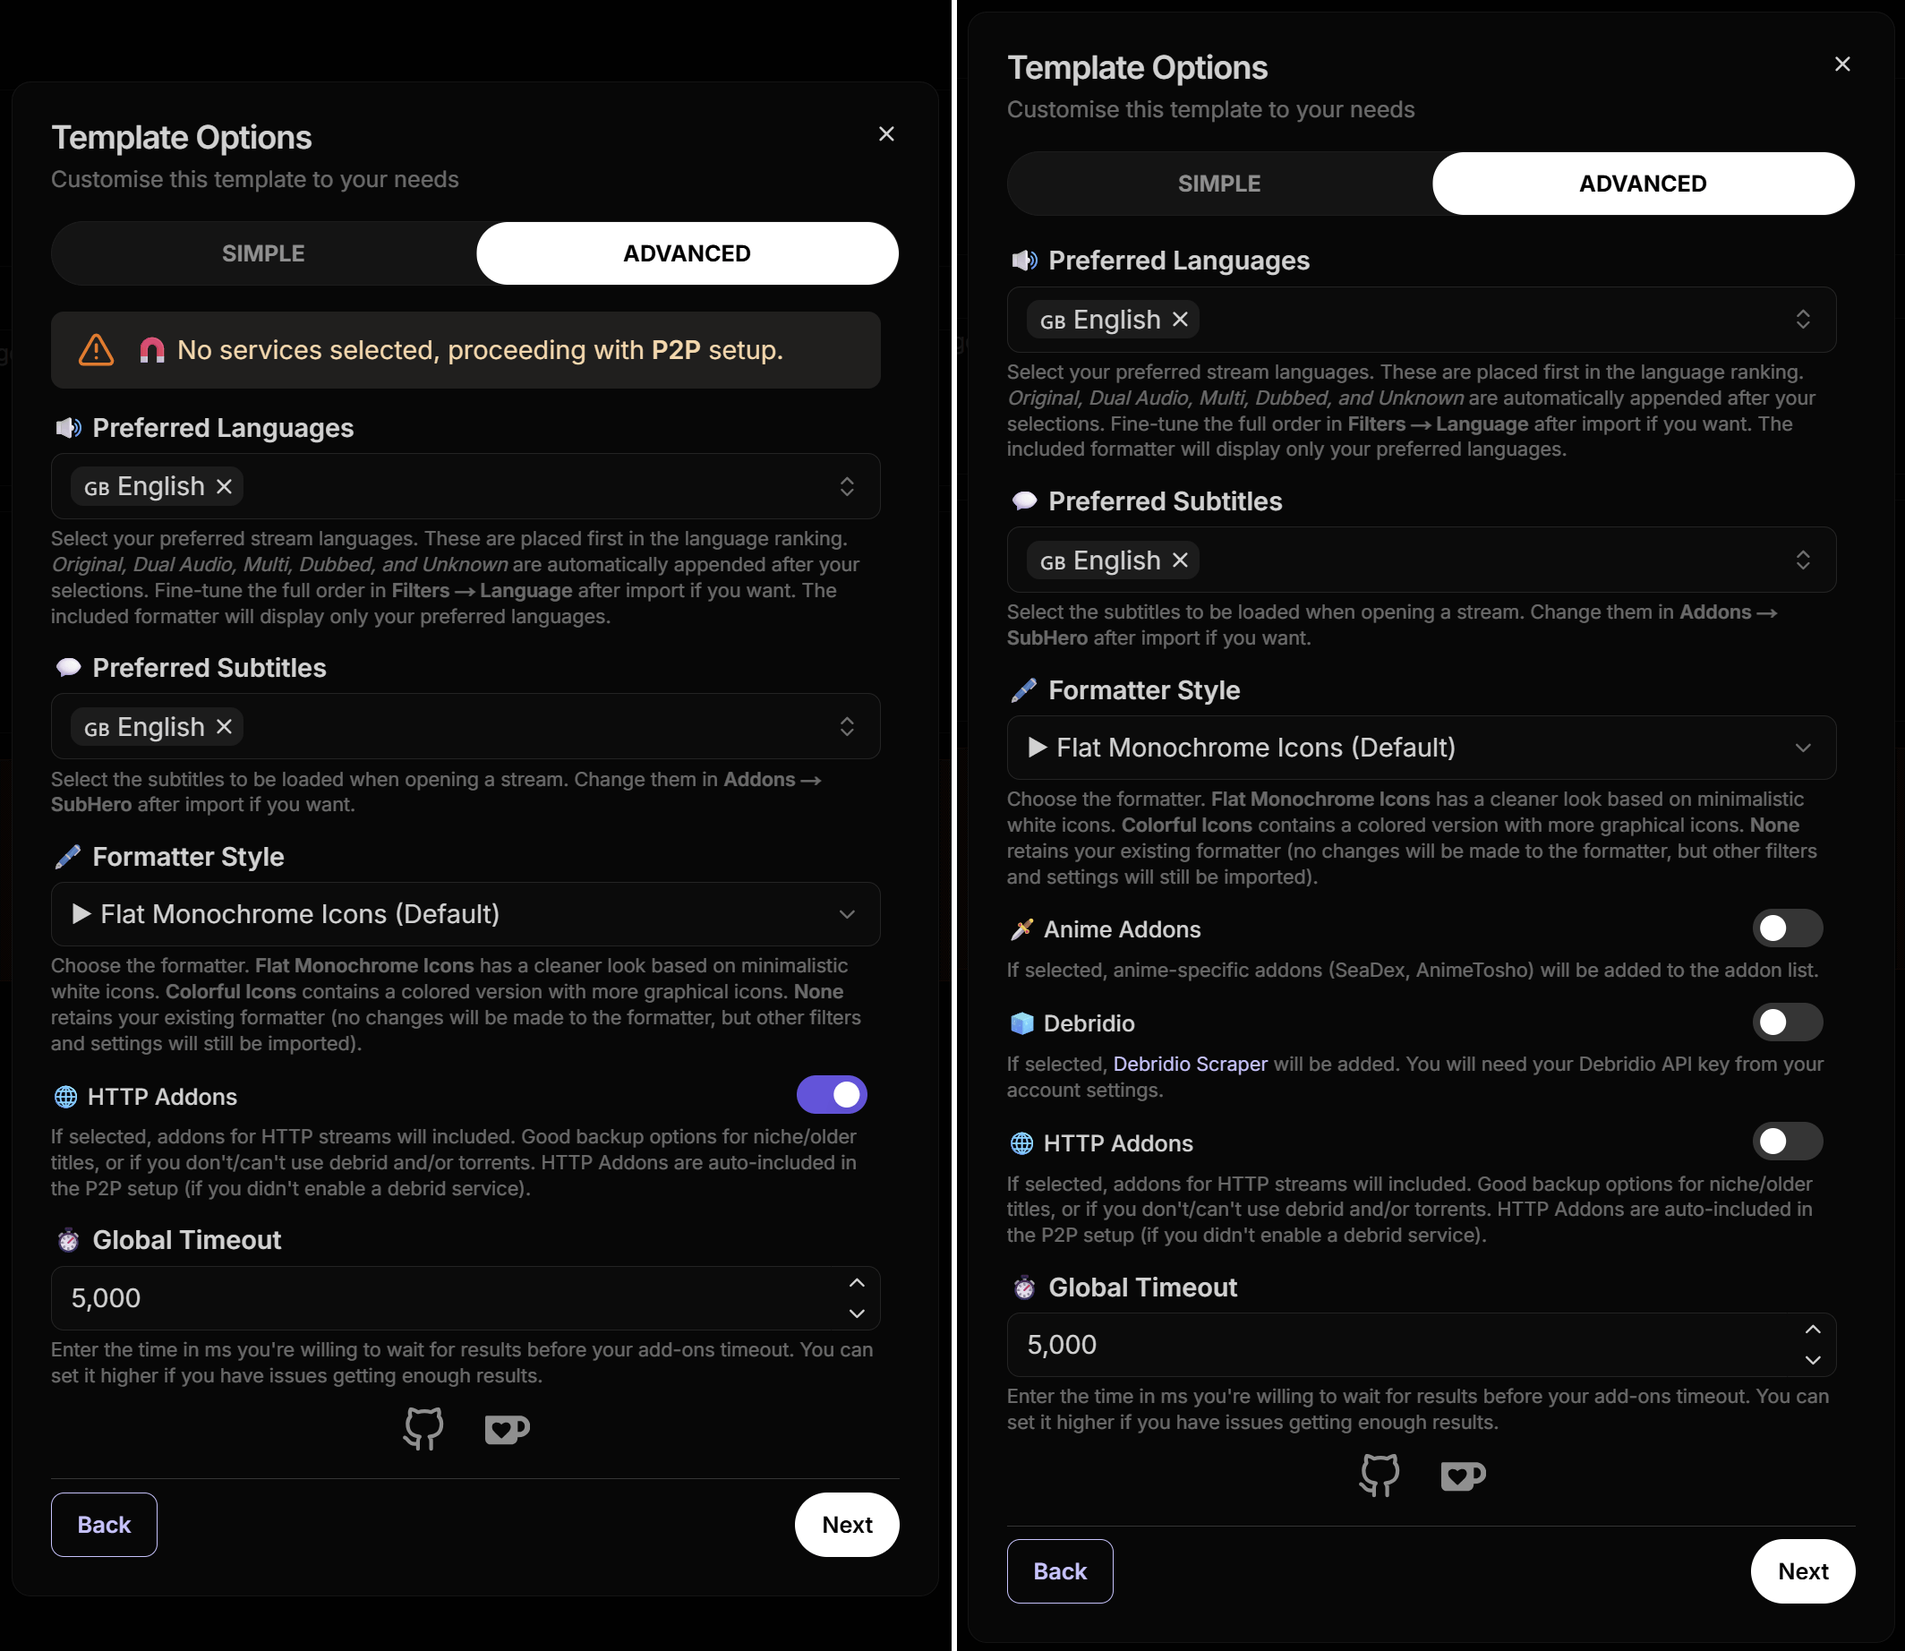
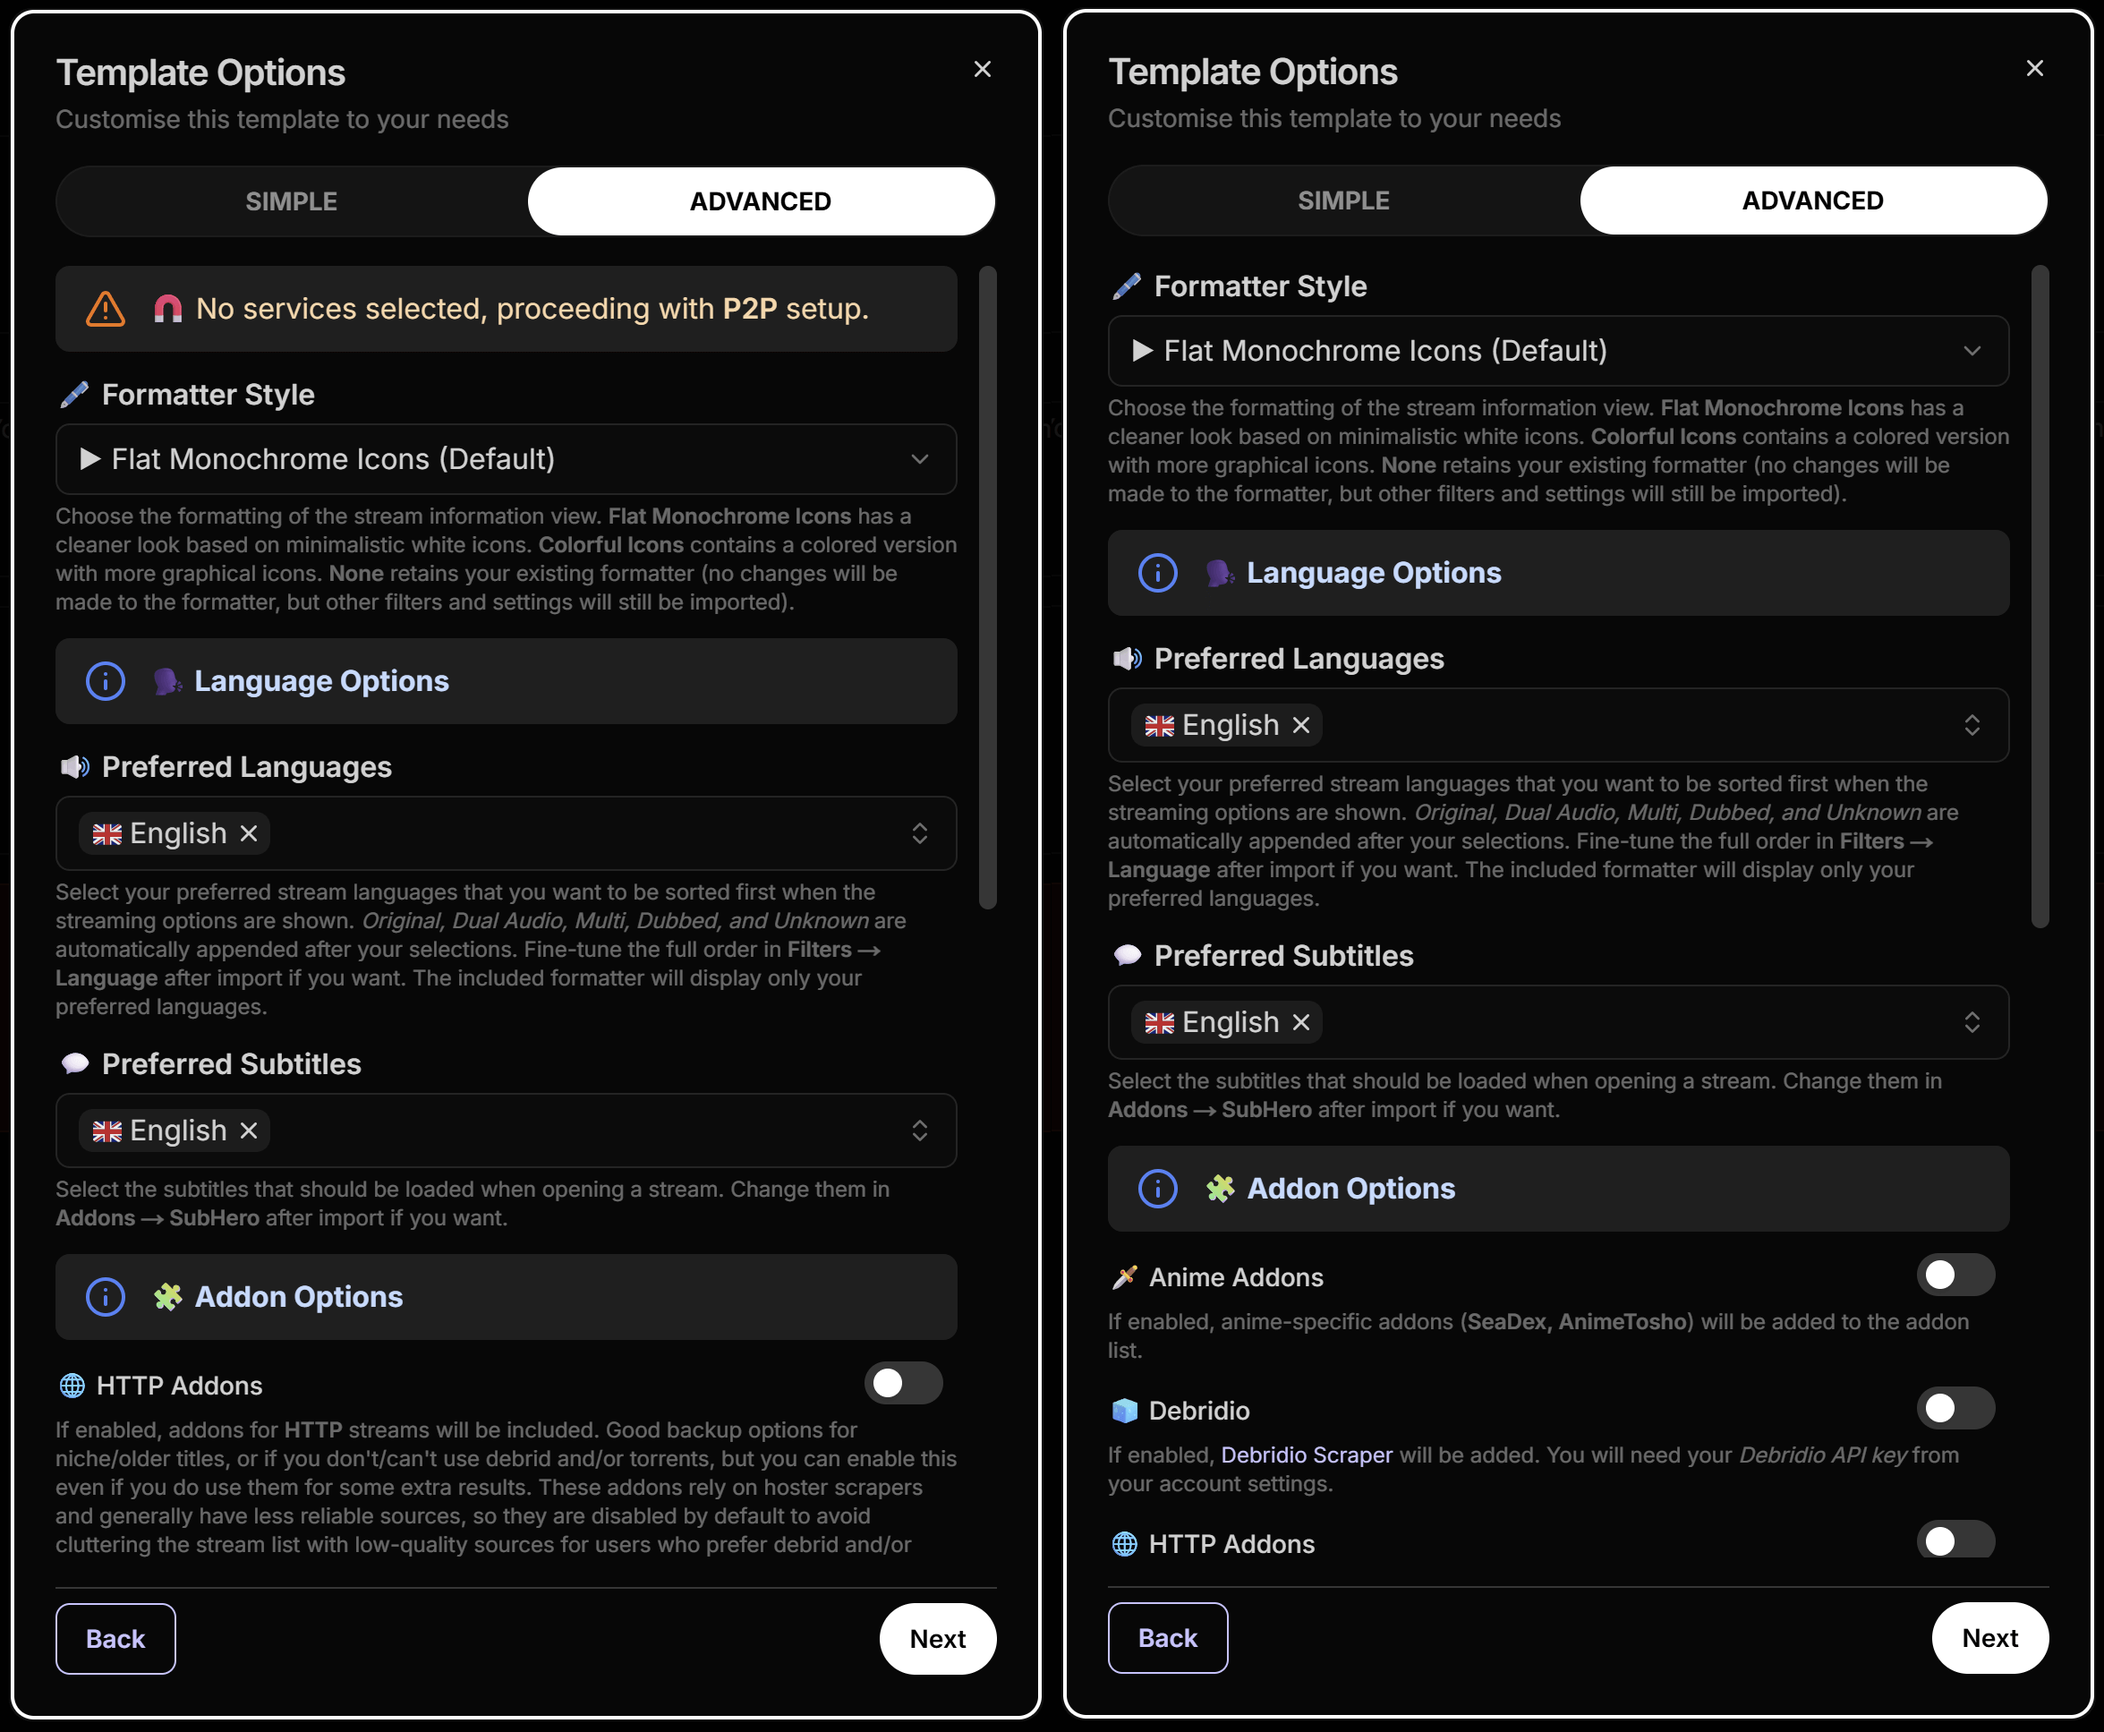
fixes

Changed region(s): [[0.0, 0.0, 1.0, 1.0], [0.7444, 0.0927, 0.9615, 0.1546], [0.0, 0.0, 0.031, 0.0309]]

diff --git a/content/Reddit.md b/content/Reddit.md
@@ -117,16 +117,21 @@ Select an **AIOStreams** instance from [**this**](https://status.stremio-status.
 4. Click "**Use this Template Now**".
 5. On the "**Select Services**" page that is shown, enable the Debrid services you want to use (or click "*Skip*" if you don't use any), and click "**Next**".
 6. On the "**Template Options**" page, you'll be able to personalize the configuration to match your preferences:
-   * **Preferred Languages**: Here you can select your preferred stream languages that you want to be sorted first when the streaming options are shown. *Original, Dual Audio, Multi, Dubbed, and Unknown* are automatically appended after your selections.
-   * **Preferred Subtitles**: Here you can select the subtitles that should be loaded when opening a stream.
    * **Formatter Style**: Here you can choose the formatting of the stream information view.
       * ***Flat Monochrome Icons*** has a cleaner look based on minimalistic white icons.
       * ***Colorful Icons*** contains a colored version with more graphical icons.
-      * ***None*** retains your existing formatter (no changes will be made to the formatter, but other filters and settings will still be imported).
-   * **Anime Addons** (not available in P2P): If enabled, anime-specific addons (SeaDex, AnimeTosho) will be added to the addon list.
-   * **Debridio** (not available in P2P): If enabled, [Debridio](https://debridio.com) will be added. You will need your *Debridio API key* from your account settings.
-   * **HTTP Addons**: If enabled, addons for HTTP streams will included. Good backup options for niche/older titles, or if you don't/can't use debrid and/or torrents. HTTP Addons are auto-included in the P2P setup (if you didn't enable a debrid service).
-   * **Global Timeout**: Enter the time in ms that you're willing to wait for results before your scraper addons timeout. You can set it a bit higher if you have issues getting enough results or you want to make sure to get as many results as possible.
+      * ***None*** retains your existing formatter (formatter will not be replaced, if you already have one configured).
+   * **Language Options**:
+      * **Preferred Languages**: Here you can select your preferred stream languages that you want to be sorted first when the streaming options are shown. *Original, Dual Audio, Multi, Dubbed, and Unknown* are automatically appended after your selections.
+      * **Preferred Subtitles**: Here you can select the subtitles that should be loaded when opening a stream.
+   * **Addon Options**:
+      * **Anime Addons** (*not available in P2P*): If enabled, additional anime-specific addons (SeaDex, AnimeTosho) will be installed.
+      * **Debridio** (*not available in P2P*): If enabled, [Debridio](https://debridio.com) will be added. You will need your *Debridio API key* from your account settings.
+      * **HTTP Addons**: If enabled, addons for HTTP streams will included. Good backup options for niche/older titles, or if you don't/can't use debrid and/or torrents, but you can enable this even if you do use them if you want extra results. These addons rely on hoster scrapers and generally have less reliable sources, so they are disabled by default to avoid cluttering the stream list with low-quality sources for users who prefer debrid and/or P2P options.
+      * **Global Timeout**: Enter the time in ms that you're willing to wait for results before your scraper addons timeout. You can set it a bit higher if you have issues getting enough results or you want to make sure to get as many results as possible.
+   * **Sorting Options**:
+      * **Language Boost**: This option can give priority to streams in your preferred languages by moving it up the sorting order. If you struggle to see your preferred languages in the results, even after adding it to the **Preferred Languages** list, try increasing this boost. May rank lower-quality streams higher if your preferred languages are uncommon among the results, so use with caution.
+      * **Seeders Boost** (*only for P2P*): Change this if you want highest seeders to be prioritized more on the sorting order, even if they have lower Resolution/Quality/SEL Scores. In most cases, low seeders will have already been filtered out by the internal filtering (SEL).
 7. On the "**Enter Credentials**" page, enter all API keys you prepared earlier.
    * For **RPDB**, unless you have an account and a paid subscription with your own API key, you can also use the free standard API Key "*t0-free-rpdb*" directly.
 8. Click on "**Load Template**".

diff --git a/docs/guide/3-AIOStreams-Setup.md b/docs/guide/3-AIOStreams-Setup.md
@@ -32,16 +32,21 @@ Select an **AIOStreams** instance from [**this**](https://status.stremio-status.
 ![Select Services](../images/3.5.png)
 
 6. On the "**Template Options**" page, you'll be able to personalize the configuration to match your preferences:
-   * **Preferred Languages**: Here you can select your preferred stream languages that you want to be sorted first when the streaming options are shown. *Original, Dual Audio, Multi, Dubbed, and Unknown* are automatically appended after your selections.
-   * **Preferred Subtitles**: Here you can select the subtitles that should be loaded when opening a stream.
    * **Formatter Style**: Here you can choose the formatting of the stream information view.
       * ***Flat Monochrome Icons*** has a cleaner look based on minimalistic white icons.
       * ***Colorful Icons*** contains a colored version with more graphical icons.
-      * ***None*** retains your existing formatter (no changes will be made to the formatter, but other filters and settings will still be imported).
-   * **Anime Addons** (not available in P2P): If enabled, anime-specific addons (SeaDex, AnimeTosho) will be added to the addon list.
-   * **Debridio** (not available in P2P): If enabled, [Debridio](https://debridio.com) will be added. You will need your *Debridio API key* from your account settings.
-   * **HTTP Addons**: If enabled, addons for HTTP streams will included. Good backup options for niche/older titles, or if you don't/can't use debrid and/or torrents. HTTP Addons are auto-included in the P2P setup (if you didn't enable a debrid service).
-   * **Global Timeout**: Enter the time in ms that you're willing to wait for results before your scraper addons timeout. You can set it a bit higher if you have issues getting enough results or you want to make sure to get as many results as possible.
+      * ***None*** retains your existing formatter (formatter will not be replaced, if you already have one configured).
+   * **Language Options**:
+      * **Preferred Languages**: Here you can select your preferred stream languages that you want to be sorted first when the streaming options are shown. *Original, Dual Audio, Multi, Dubbed, and Unknown* are automatically appended after your selections.
+      * **Preferred Subtitles**: Here you can select the subtitles that should be loaded when opening a stream.
+   * **Addon Options**:
+      * **Anime Addons** (*not available in P2P*): If enabled, additional anime-specific addons (SeaDex, AnimeTosho) will be installed.
+      * **Debridio** (*not available in P2P*): If enabled, [Debridio](https://debridio.com) will be added. You will need your *Debridio API key* from your account settings.
+      * **HTTP Addons**: If enabled, addons for HTTP streams will included. Good backup options for niche/older titles, or if you don't/can't use debrid and/or torrents, but you can enable this even if you do use them if you want extra results. These addons rely on hoster scrapers and generally have less reliable sources, so they are disabled by default to avoid cluttering the stream list with low-quality sources for users who prefer debrid and/or P2P options.
+      * **Global Timeout**: Enter the time in ms that you're willing to wait for results before your scraper addons timeout. You can set it a bit higher if you have issues getting enough results or you want to make sure to get as many results as possible.
+   * **Sorting Options**:
+      * **Language Boost**: This option can give priority to streams in your preferred languages by moving it up the sorting order. If you struggle to see your preferred languages in the results, even after adding it to the **Preferred Languages** list, try increasing this boost. May rank lower-quality streams higher if your preferred languages are uncommon among the results, so use with caution.
+      * **Seeders Boost** (*only for P2P*): Change this if you want highest seeders to be prioritized more on the sorting order, even if they have lower Resolution/Quality/SEL Scores. In most cases, low seeders will have already been filtered out by the internal filtering (SEL).
 
 ![Template Options](../images/3.6.png)
 

diff --git a/docs/guide/7-Additional-Stuff.md b/docs/guide/7-Additional-Stuff.md
@@ -20,19 +20,21 @@ The **AIOStreams** template you used from this guide includes multiple optimizat
 
 * **However**, if you are not satisfied with the results because you want more to choose from, or you feel they are malfunctioning somehow, you can remove them all by going to **Filters** in **AIOStreams**, then both in **Stream Expression** and **Regex** respectively, and delete all entries configured there (with the red *trash can* button to the right).
 
-* Finally, the **Sorting** in the template is configured to show the streams in the following order:
+* Finally, the **Sorting** in the template is configured to show the streams in the following order by default:
 
    * *Cached/Uncached (if applicable)*
-   * *SeaDex (only for Anime)*
+   * *SeaDex (for Anime)*
    * *Resolution*
    * *Quality*
    * *Stream Expressions*
    * *Stream Expressions Score*
-   * *Seeders (if Uncached)*
+   * *Seeders (if Uncached/P2P)*
    * *Language*
    * *Bitrate*
 
-* **However**, if you want to change the **Sorting** order, in **AIOStreams** go to **Sorting**, select **Cached** or **Uncached** from **Sort Order Type** and change the order.
+* When you load the **AIOStreams** template provided in this guide, you have the option to prioritize **Language** and **Seeders** if needed according to your preferences.
+
+* **However**, if you want to fine-tune the **Sorting** order yourself, in **AIOStreams** go to **Sorting**, select **Cached** or **Uncached** from **Sort Order Type** and change the order.
 
 
 ## Alternative Stream Information Icons
